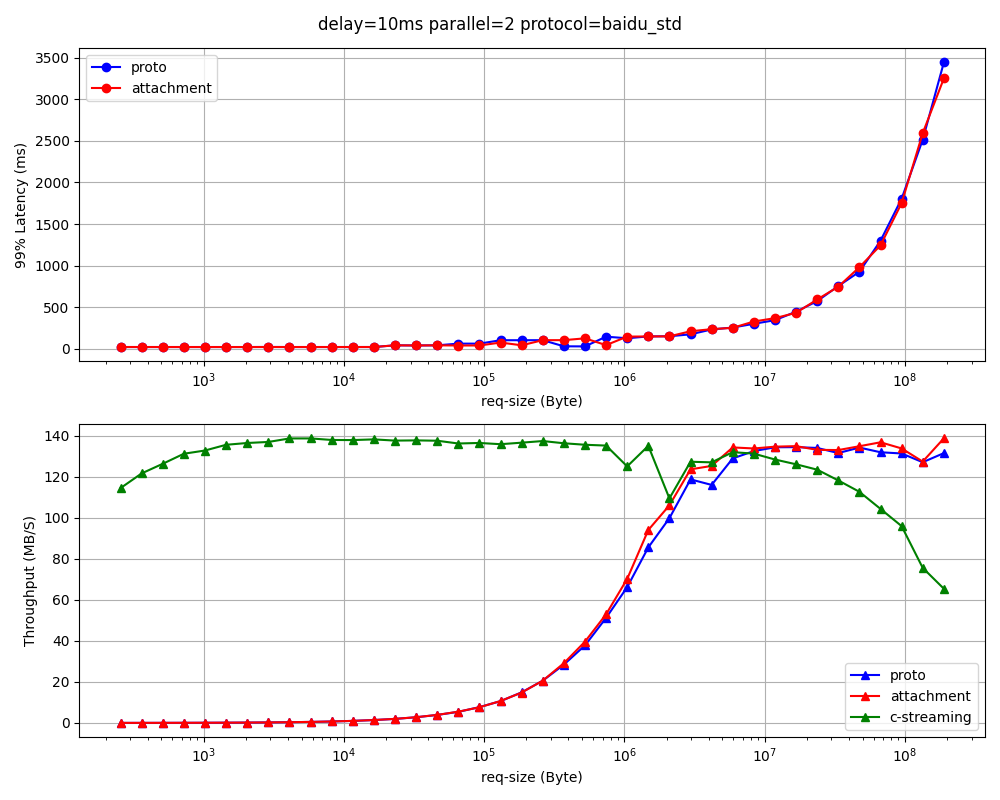
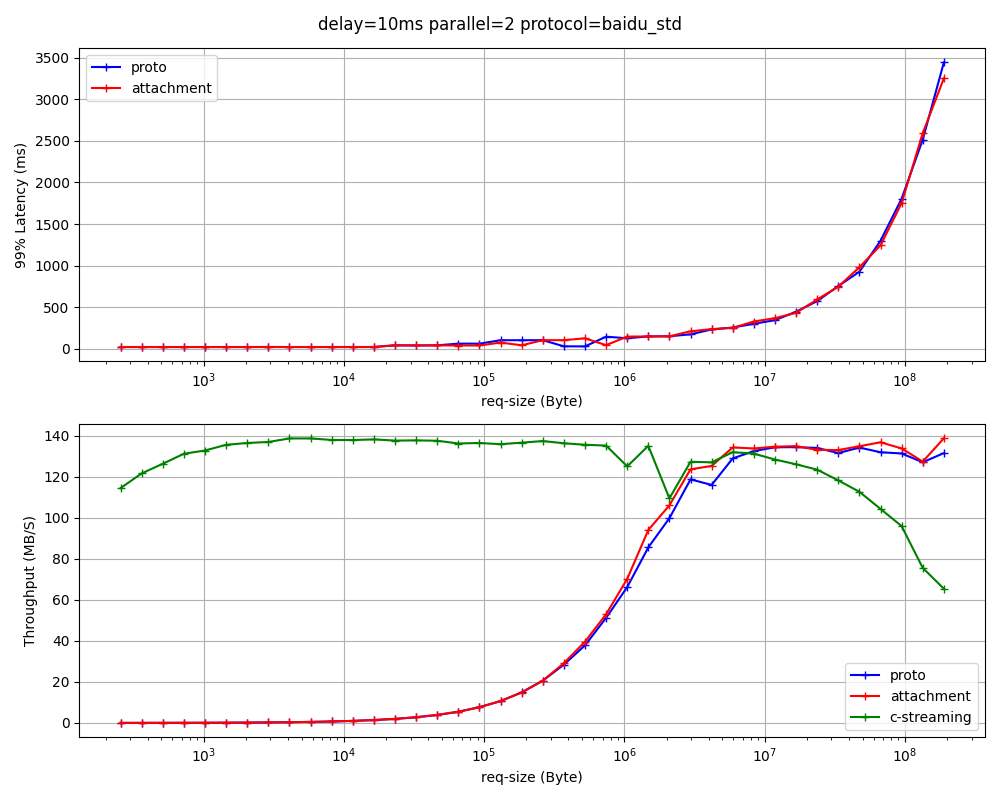
add mroe protocols

diff --git a/src/benchmark_client.cc b/src/benchmark_client.cc
@@ -365,47 +365,70 @@ DEFINE_bool(for_parallelism, false, "");
 DEFINE_bool(for_req_size, false, "");
 DEFINE_bool(for_streaming_size, false, "");
 
+DEFINE_bool(test_proto, true, "");
+DEFINE_bool(test_attachment, true, "");
+DEFINE_bool(test_cstreaming, true, "");
+DEFINE_bool(test_sstreaming, false, "");
+
 int main(int argc, char *argv[]) {
   auto config = parseCommandLine(argc, argv);
 
   if (FLAGS_for_parallelism) {
-    config.use_attachment = true;
-    BenchmarkForParallel("attachment", config);
-    config.use_attachment = false;
-
-    config.use_proto_bytes = true;
-    BenchmarkForParallel("proto", config);
-    config.use_proto_bytes = false;
-
-    config.use_single_streaming = true;
-    BenchmarkForParallel("sstreaming", config);
-    config.use_single_streaming = false;
+    if (FLAGS_test_attachment) {
+      config.use_attachment = true;
+      BenchmarkForParallel("attachment", config);
+      config.use_attachment = false;
+    }
+    if (FLAGS_test_proto) {
+      config.use_proto_bytes = true;
+      BenchmarkForParallel("proto", config);
+      config.use_proto_bytes = false;
+    }
+    if (FLAGS_test_sstreaming) {
+      config.use_single_streaming = true;
+      BenchmarkForParallel("sstreaming", config);
+      config.use_single_streaming = false;
+    }
   }
 
   if (FLAGS_for_req_size) {
     auto max_req_size = config.req_size;
 
-    config.use_attachment = true;
-    BenchmarkForReqSize("attachment", config, max_req_size);
-    config.use_attachment = false;
+    if (FLAGS_test_attachment) {
+      config.use_attachment = true;
+      BenchmarkForReqSize("attachment", config, max_req_size);
+      config.use_attachment = false;
+    }
+    if (FLAGS_test_proto) {
+      config.use_proto_bytes = true;
+      BenchmarkForReqSize("proto", config, max_req_size);
+      config.use_proto_bytes = false;
+    }
+    if (FLAGS_test_cstreaming) {
+      config.use_continue_streaming = true;
+      BenchmarkForReqSize("cstreaming", config, max_req_size);
+      config.use_continue_streaming = false;
+    }
 
-    config.use_proto_bytes = true;
-    BenchmarkForReqSize("proto", config, max_req_size);
-    config.use_proto_bytes = false;
-
-    config.use_continue_streaming = true;
-    BenchmarkForReqSize("cstreaming", config, max_req_size);
-    config.use_continue_streaming = false;
-
-    // config.use_single_streaming = true;
-    // BenchmarkForReqSize("sstreaming", config, max_req_size);
-    // config.use_single_streaming = false;
+    if (FLAGS_test_sstreaming) {
+      config.use_single_streaming = true;
+      BenchmarkForReqSize("sstreaming", config, max_req_size);
+      config.use_single_streaming = false;
+    }
   }
 
   if (FLAGS_for_streaming_size) {
-    config.use_continue_streaming = true;
-    BenchmarkForStreamingSize("cstreaming", config);
-    config.use_continue_streaming = false;
+    if (FLAGS_test_cstreaming) {
+      config.use_continue_streaming = true;
+      BenchmarkForStreamingSize("cstreaming", config);
+      config.use_continue_streaming = false;
+    }
+
+    if (FLAGS_test_sstreaming) {
+      config.use_single_streaming = true;
+      BenchmarkForStreamingSize("cstreaming", config);
+      config.use_single_streaming = false;
+    }
   }
 
   return 0;

diff --git a/drawer.py b/drawer.py
@@ -60,9 +60,9 @@ class DataDrawer:
             color = colors[i]
             # Plot array latencies 1 on the first subplot
             if(test_type in self.delays):
-                ax1.plot(self.x_axis, self.delays[test_type], marker='o', label=test_type, color=color)
+                ax1.plot(self.x_axis, self.delays[test_type], marker='+', label=test_type, color=color)
             if(test_type in self.speed):
-                ax2.plot(self.x_axis, self.speed[test_type], marker='^', label=f"{test_type}", color=color)
+                ax2.plot(self.x_axis, self.speed[test_type], marker='+', label=f"{test_type}", color=color)
             # if(test_type in self.qps):
             #     ax3.plot(self.x_axis, self.qps[test_type], marker='*', linestyle='--', label=f"{test_type} qps", color=color)
 
@@ -199,12 +199,24 @@ for delay in delays:
         readCsv(f"attachment-{delay}-p{pa}", f"result/{delay}/brpc_req-size_attachment_reqsz(256-256m)_para({pa})_streamsz(8k)_prot(baidu_std).csv")
         readCsv(f"c-streaming-{delay}-p{pa}", f"result/{delay}/brpc_req-size_cstreaming_reqsz(256-256m)_para({pa})_streamsz(8k)_prot(baidu_std).csv")
 
-        # p_drawer = DataDrawer()
-        # p_drawer.setData(f"proto-{delay}-p{pa}", "proto")
-        # p_drawer.setData(f"attachment-{delay}-p{pa}", "attachment")
-        # p_drawer.setData(f"c-streaming-{delay}-p{pa}", "c-streaming")
-        # p_drawer.draw("req-size (Byte)", f"delay={delay} parallel={pa} protocol=baidu_std",
-        #               f"req-size_delay{delay}_reqsz(256-256m)_para({pa})_streamsz(8k)_prot(baidu_std)")
+        p_drawer = DataDrawer()
+        p_drawer.setData(f"proto-{delay}-p{pa}", "proto")
+        p_drawer.setData(f"attachment-{delay}-p{pa}", "attachment")
+        p_drawer.setData(f"c-streaming-{delay}-p{pa}", "c-streaming")
+        p_drawer.draw("req-size (Byte)", f"delay={delay} parallel={pa} protocol=baidu_std",
+                      f"req-size_delay{delay}_reqsz(256-256m)_para({pa})_streamsz(8k)_prot(baidu_std)")
+
+delay = "1ms"
+pa = 1
+readCsv(f"proto-{delay}-p{pa}-h2:grpc", f"result/{delay}/brpc_req-size_proto_reqsz(256-256m)_para(1)_streamsz(8k)_prot(h2:grpc).csv")
+readCsv(f"proto-{delay}-p{pa}-hulu", f"result/{delay}/brpc_req-size_proto_reqsz(256-256m)_para(1)_streamsz(8k)_prot(hulu_pbrpc).csv")
+p_drawer = DataDrawer()
+p_drawer.setData(f"proto-{delay}-p{pa}", "baidu_std")
+p_drawer.setData(f"proto-{delay}-p{pa}-h2:grpc", "h2:grpc")
+p_drawer.setData(f"proto-{delay}-p{pa}-hulu", "hulu")
+p_drawer.draw("req-size (Byte)", f"delay={delay} parallel={pa}",
+              f"req-size_delay{delay}_reqsz(256-256m)_para({pa})_streamsz(8k)_prots")
+
 
 drawIperf()
 

diff --git a/src/benchmark_server.cc b/src/benchmark_server.cc
@@ -163,6 +163,9 @@ class Server {
 
     // Start the server_.
     brpc::ServerOptions options;
+    options.h2_settings.stream_window_size = brpc::H2Settings::MAX_WINDOW_SIZE;
+    options.h2_settings.connection_window_size = brpc::H2Settings::MAX_WINDOW_SIZE;
+    // options.h2_settings.max_frame_size = brpc::H2Settings::DEFAULT_MAX_FRAME_SIZE - 1;
 
     if (server_.Start(config_.brpc_port, &options) != 0) {
       LOG(ERROR) << "Fail to start EchoServer";
